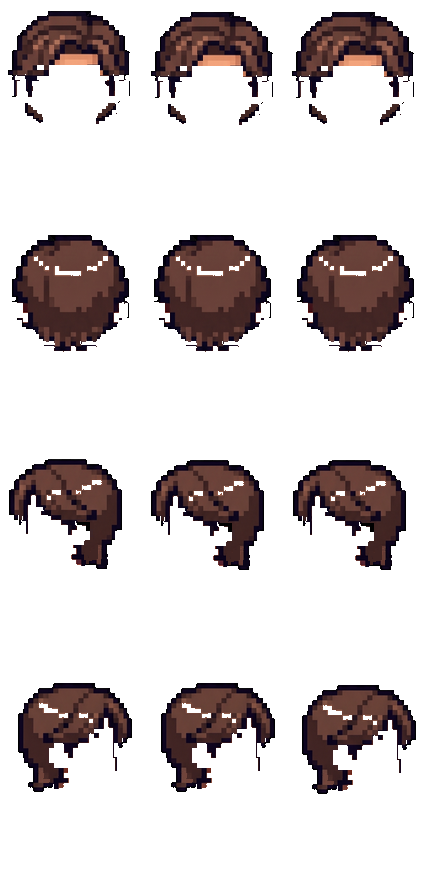
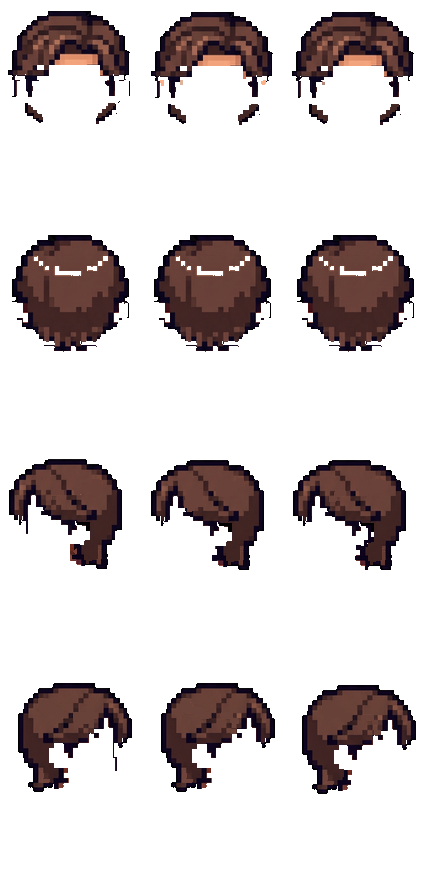
fix(char): 남캐 헤어 3종 - 걸음 프레임 이마의 세로 불순물 제거 (대표 수작업) (sw v272)
대표가 걸음걸이를 확대해서 찾아냈다: **이마쪽에 ㅣ 모양 불순물 픽셀**이 걸음 프레임에만
박혀 있었다. 그게 "경계선이 왔다갔다" 하던 정체다. 대표가 프레임별로 일일이 지웠다.

★변경량이 원인을 그대로 보여준다 — 기본헤어·아이비는 **col0(정지) 변화 0, col1·col2만 변경**.
  기본헤어  좌 col1 2 / col2 10 · 우 col1 18 / col2 36
  아이비    좌 col1 146 / col2 143 · 우 col1 193 / col2 223
  세미리프  정면 col1 118 / col2 93 · 좌우도 열별로 다름
즉 불순물은 **걸음 프레임에만, 열마다 다른 자리에** 있었다. 그래서 "3프레임 같이 고치기"
(bbox 오프셋으로 같은 상대 위치에 적용)로는 절대 안 지워졌다 —
대표가 "각 열에 전체 적용해도 적용이 안 되어 있더라"고 한 게 이것이다.
프레임 개별 편집(9ecf5af)이 있어야 풀리는 문제였다.

★3열 모양이 서로 다르게 됐는데 **이건 정상이다. 통일하면 안 된다.**
  불순물이 열마다 다른 자리에 있었으므로 지운 결과도 열마다 다르다.
  replicate_cols 로 통일하면 대표 작업이 지워진다.
검증: 세미리프 정면 3프레임 노출 0/0/0, 12프레임 렌더에서 이마 불순물 사라짐. 반투명 0px.

diff --git a/index.html b/index.html
@@ -1,5 +1,5 @@
 <!DOCTYPE html>
-<!-- cache-bust: v20260731009 -->
+<!-- cache-bust: v20260731010 -->
 <html lang="ko">
 <head>
 <meta charset="UTF-8">
@@ -2041,7 +2041,7 @@ window.CHAR_ITEMS = [
   { id: 'shoes_black', slot: 'shoes', body: 'human', name: '검정 러닝화', price: 0, sheet: 'char/items/shoes_black.png', thumb: 'char/items/shoes_black_thumb.png' }
 ];
 // 아이템 이미지 캐시버전 — 아이템 시트/썸네일 바꿀 때마다 올리면 SW 캐시 무시하고 새로 받음
-window._ITEM_V = 88;
+window._ITEM_V = 89;
 window._iv = function (u) { return u ? (u + (u.indexOf('?') < 0 ? '?v=' : '&v=') + (window._ITEM_V || 1)) : u; };
 window.CHAR_FREE = ['hair_short', 'top_tee', 'mask_simple'];
 window.CHAR_SHAPES = {

diff --git a/sw.js b/sw.js
@@ -1,7 +1,7 @@
 // 배포마다 이 버전을 올려야 자동 새버전 적용(새로고침)이 동작함
-const CACHE_NAME = 'murpy-v271';
-const STATIC_CACHE = 'murpy-static-v271';
-const CDN_CACHE = 'murpy-cdn-v271';
+const CACHE_NAME = 'murpy-v272';
+const STATIC_CACHE = 'murpy-static-v272';
+const CDN_CACHE = 'murpy-cdn-v272';
 // 이미지 캐시는 버전 안 붙임 → 코드/HTML 배포해도 유지(URL이 곧 버전)
 const IMG_CACHE = 'murpy-img';
 
